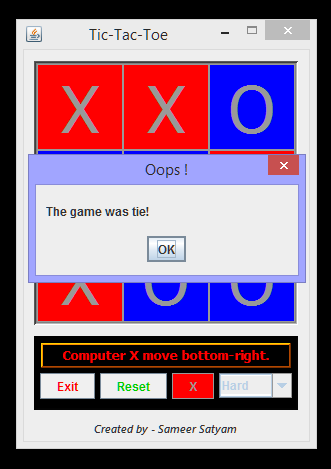
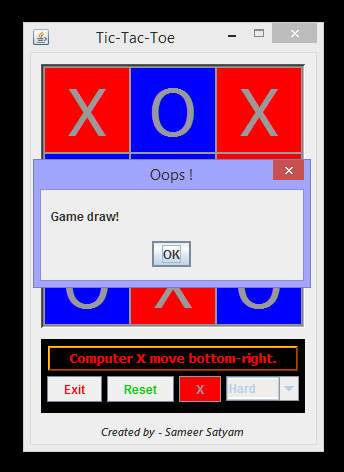
Readme file edits 5, changed message tie to draw and replaced screenshot 4

diff --git a/src/TTT/SimpleBoard.java b/src/TTT/SimpleBoard.java
@@ -440,7 +440,7 @@ public class SimpleBoard extends JFrame implements ActionListener{
 			combox.setEnabled(true);
 			btnNewButton_2.setEnabled(true);
 		} else if(count == 9 && win == false){
-			JOptionPane.showMessageDialog(null,"The game was tie!","Oops !",JOptionPane.PLAIN_MESSAGE);
+			JOptionPane.showMessageDialog(null,"Game draw!","Oops !",JOptionPane.PLAIN_MESSAGE);
 			reset();
 			combox.setEnabled(true);
 			btnNewButton_2.setEnabled(true);

diff --git a/README.md b/README.md
@@ -46,13 +46,9 @@ End with an example of getting some data out of the system or using it for a lit
 
 Some screen shots from the software.
 
-![Initial Screen](https://github.com/satyamsameer/SimpleTTT/blob/master/screenshots/1.png)
+![Initial Screen](https://github.com/satyamsameer/SimpleTTT/blob/master/screenshots/1.png) ![Between Gameplay](https://github.com/satyamsameer/SimpleTTT/blob/master/screenshots/2.png)
 
-![Between Gameplay](https://github.com/satyamsameer/SimpleTTT/blob/master/screenshots/2.png)
-
-![Congratulations](https://github.com/satyamsameer/SimpleTTT/blob/master/screenshots/3.png)
-
-![Draw](https://github.com/satyamsameer/SimpleTTT/blob/master/screenshots/4.png)
+![Congratulations](https://github.com/satyamsameer/SimpleTTT/blob/master/screenshots/3.png) ![Draw](https://github.com/satyamsameer/SimpleTTT/blob/master/screenshots/4.png)
 
 
 ## Built With
